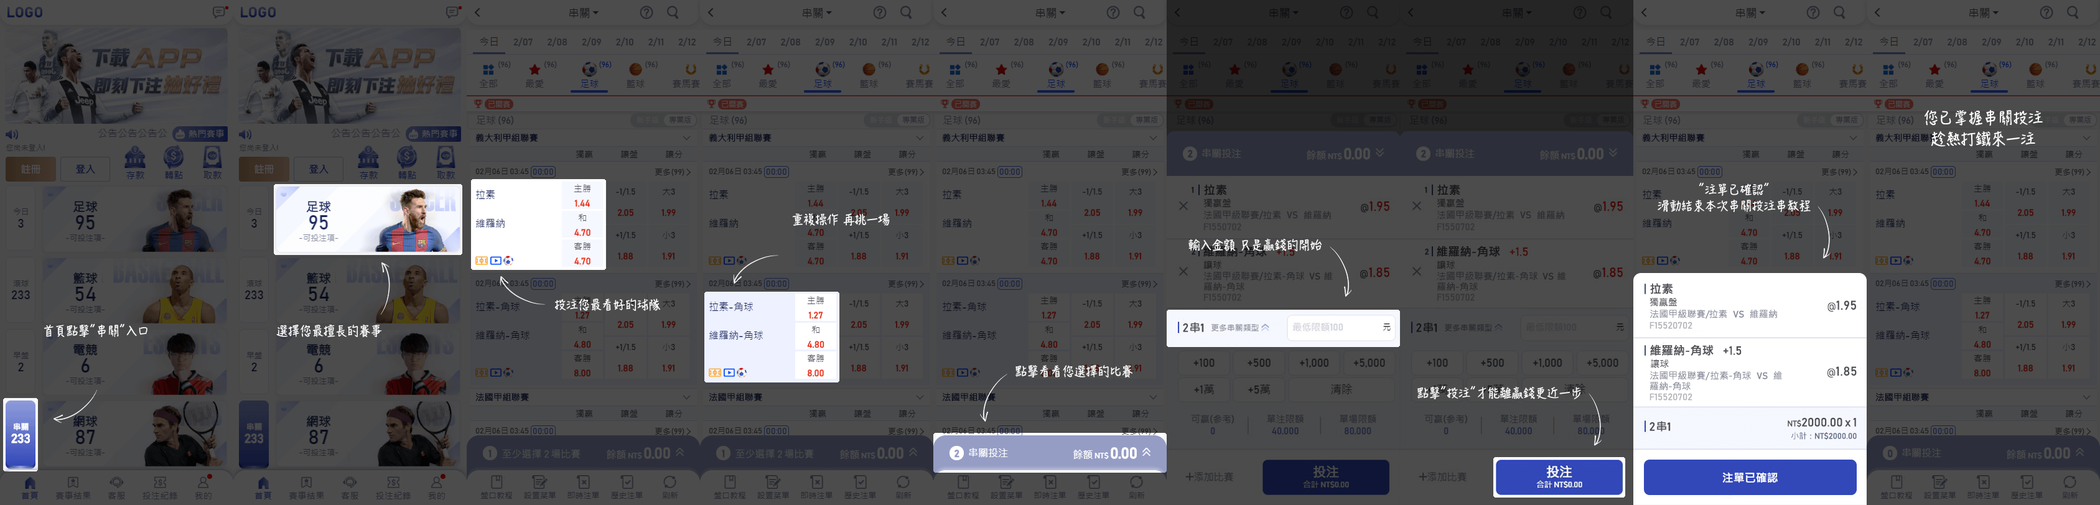
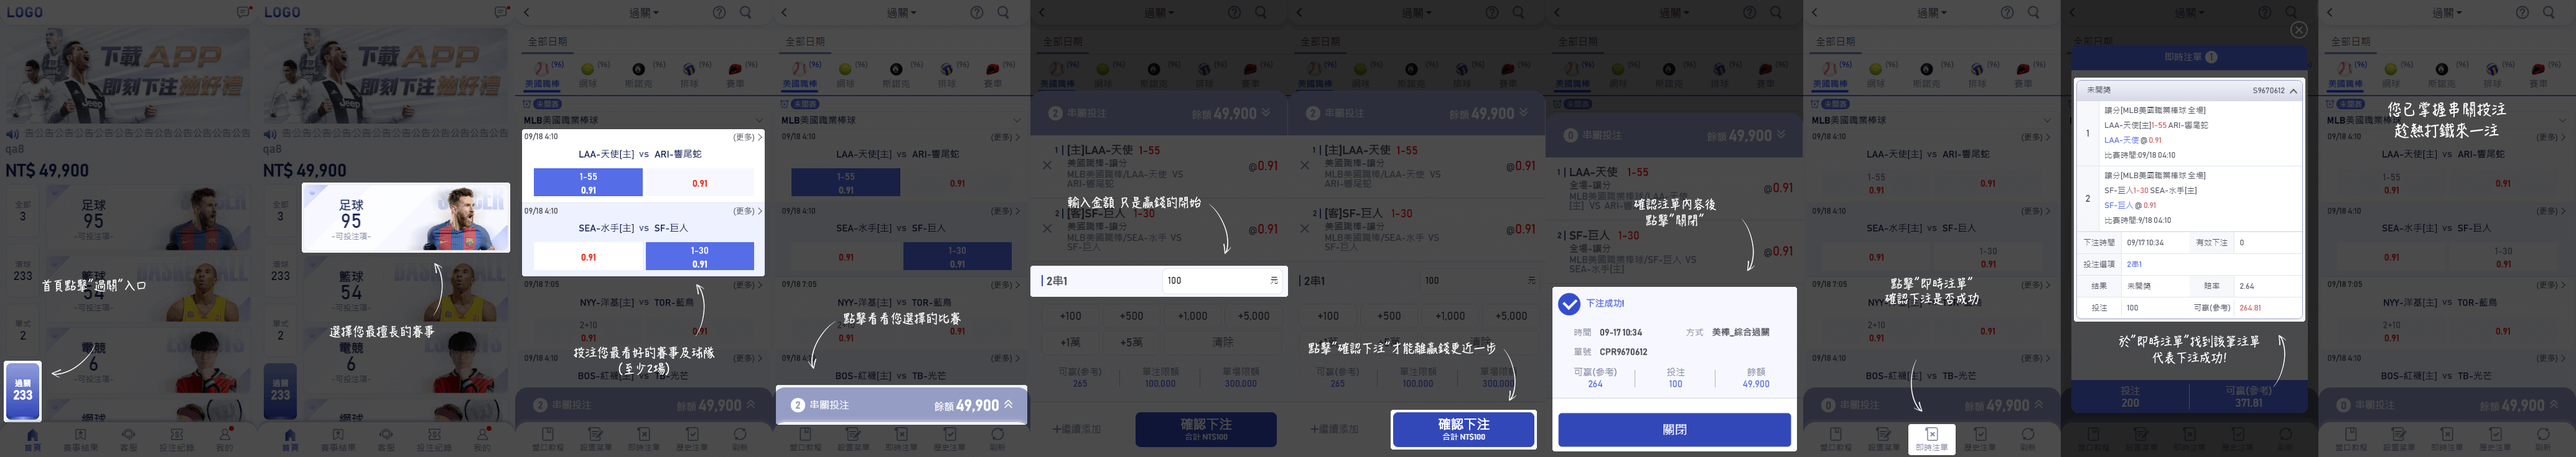
s_bet、m_bet change images

diff --git a/css/tip/tip.scss b/css/tip/tip.scss
@@ -49,10 +49,10 @@ main {
         width: 100%;
         height: 100%;
         background: url(../../images/tip/single/single_tip.png) no-repeat;
-        background-size: 600vw 100%;
+        background-size: 800vw 100%;
         background-position: 0 0;
     }
-    @for $smt from 2 through 6 {
+    @for $smt from 2 through 8 {
         .smt#{$smt} {
             background-position: (($smt - 1) * (-100vw)) 0;
         }
@@ -73,11 +73,14 @@ main {
             background-position: 0 -5.626rem;
         }
     }
+    .nt1 {
+        bottom: 19%;
+    }
     .nt2 {
-        bottom: 27%;
+        bottom: 31%;
     }
     .nt3 {
-        bottom: 24%;
+        bottom: 22%;
     }
     .nt4 {
         bottom: 3%;
@@ -86,7 +89,10 @@ main {
         bottom: 3%;
     }
     .nt6 {
-        bottom: 3%;
+        bottom: 25%;
+    }
+    .nt7 {
+        bottom: 27%;
     }
     .mbg {
         position: fixed;
@@ -96,18 +102,18 @@ main {
         width: 100%;
         height: 100%;
         background: url(../../images/tip/multiple/multiple_tip.png) no-repeat;
-        background-size: 900vw 100%;
+        background-size: 1000vw 100%;
         background-position: 0 0;
     }
-    @for $mmt from 2 through 9 {
+    @for $mmt from 2 through 10 {
         .mmt#{$mmt} {
             background-position: (($mmt - 1) * (-100vw)) 0;
         }
     }
     .mnxb {
         position: fixed;
-        left: 25%;
-        bottom: 25%;
+        left: 20%;
+        bottom: 28%;
         z-index: 1;
         width: 10.125rem * 2;
         height: 2.813rem * 2;
@@ -119,28 +125,37 @@ main {
             background-position: 0 -2.813rem * 2;
         }
     }
+    .mbt2 {
+        left: 32%;
+        bottom: 18%;
+    }
     .mbt3 {
-        left: 45%;
-        bottom: 31%;
+        left: 34%;
+        bottom: 10%;
     }
     .mbt4 {
-        left: 45%;
-        bottom: 48%;
+        left: 33%;
+        bottom: 21%;
     }
     .mbt5 {
-        left: 44%;
-        bottom: 17%;
+        left: 24%;
+        bottom: 46%;
     }
     .mbt6 {
-        left: 21%;
-        bottom: 42%;
+        left: 30%;
+        bottom: 14%;
     }
     .mbt7 {
-        bottom: 13%;
+        left: 34%;
+        bottom: 42%;
     }
     .mbt8 {
-        left: 28%;
-        bottom: 50%;
+        left: 33%;
+        bottom: 25%;
+    }
+    .mbt9 {
+        left: 34%;
+        bottom: 12%;
     }
     .nhbg {
         position: fixed;

diff --git a/css/tip/tip.css b/css/tip/tip.css
@@ -266,7 +266,7 @@ main .sbg {
   width: 100%;
   height: 100%;
   background: url(../../images/tip/single/single_tip.png) no-repeat;
-  background-size: 600vw 100%;
+  background-size: 800vw 100%;
   background-position: 0 0;
 }
 main .smt2 {
@@ -284,6 +284,12 @@ main .smt5 {
 main .smt6 {
   background-position: -500vw 0;
 }
+main .smt7 {
+  background-position: -600vw 0;
+}
+main .smt8 {
+  background-position: -700vw 0;
+}
 main .nxb {
   position: fixed;
   bottom: 24%;
@@ -299,11 +305,14 @@ main .nxb {
 main .nxb:active, main .nxb:hover {
   background-position: 0 -5.626rem;
 }
+main .nt1 {
+  bottom: 19%;
+}
 main .nt2 {
-  bottom: 27%;
+  bottom: 31%;
 }
 main .nt3 {
-  bottom: 24%;
+  bottom: 22%;
 }
 main .nt4 {
   bottom: 3%;
@@ -312,7 +321,10 @@ main .nt5 {
   bottom: 3%;
 }
 main .nt6 {
-  bottom: 3%;
+  bottom: 25%;
+}
+main .nt7 {
+  bottom: 27%;
 }
 main .mbg {
   position: fixed;
@@ -322,7 +334,7 @@ main .mbg {
   width: 100%;
   height: 100%;
   background: url(../../images/tip/multiple/multiple_tip.png) no-repeat;
-  background-size: 900vw 100%;
+  background-size: 1000vw 100%;
   background-position: 0 0;
 }
 main .mmt2 {
@@ -349,10 +361,13 @@ main .mmt8 {
 main .mmt9 {
   background-position: -800vw 0;
 }
+main .mmt10 {
+  background-position: -900vw 0;
+}
 main .mnxb {
   position: fixed;
-  left: 25%;
-  bottom: 25%;
+  left: 20%;
+  bottom: 28%;
   z-index: 1;
   width: 20.25rem;
   height: 5.626rem;
@@ -363,28 +378,37 @@ main .mnxb {
 main .mnxb:active, main .mnxb:hover {
   background-position: 0 -5.626rem;
 }
+main .mbt2 {
+  left: 32%;
+  bottom: 18%;
+}
 main .mbt3 {
-  left: 45%;
-  bottom: 31%;
+  left: 34%;
+  bottom: 10%;
 }
 main .mbt4 {
-  left: 45%;
-  bottom: 48%;
+  left: 33%;
+  bottom: 21%;
 }
 main .mbt5 {
-  left: 44%;
-  bottom: 17%;
+  left: 24%;
+  bottom: 46%;
 }
 main .mbt6 {
-  left: 21%;
-  bottom: 42%;
+  left: 30%;
+  bottom: 14%;
 }
 main .mbt7 {
-  bottom: 13%;
+  left: 34%;
+  bottom: 42%;
 }
 main .mbt8 {
-  left: 28%;
-  bottom: 50%;
+  left: 33%;
+  bottom: 25%;
+}
+main .mbt9 {
+  left: 34%;
+  bottom: 12%;
 }
 main .nhbg {
   position: fixed;

diff --git a/html/tip/single_bet_tip.html b/html/tip/single_bet_tip.html
@@ -12,7 +12,7 @@
     <main>
         <section class="1">
             <div class="sbg"></div>
-            <div class="nxb">
+            <div class="nxb nt1">
                 <a></a>
             </div>
             <div class="soff"><span>x</span><a href="../../index.html"></a>
@@ -57,6 +57,24 @@
 
         <section class="6 none">
             <div class="sbg smt6"></div>
+            <div class="nxb nt6">
+                <a></a>
+            </div>
+            <div class="soff"><span>x</span><a href="../../index.html"></a>
+            </div>
+        </section>
+
+        <section class="7 none">
+            <div class="sbg smt7"></div>
+            <div class="nxb nt7">
+                <a></a>
+            </div>
+            <div class="soff"><span>x</span><a href="../../index.html"></a>
+            </div>
+        </section>
+
+        <section class="8 none">
+            <div class="sbg smt8"></div>
             <div class="realb">
                 <a href="../../index.html"></a>
             </div>

diff --git a/html/tip/multiple_bet_tip.html b/html/tip/multiple_bet_tip.html
@@ -21,7 +21,7 @@
 
         <section class="2 none">
             <div class="mbg mmt2"></div>
-            <div class="mnxb">
+            <div class="mnxb mbt2">
                 <a></a>
             </div>
             <div class="soff"><span>x</span><a href="../../index.html"></a>
@@ -84,6 +84,15 @@
 
         <section class="9 none">
             <div class="mbg mmt9"></div>
+            <div class="mnxb mbt9">
+                <a></a>
+            </div>
+            <div class="soff"><span>x</span><a href="../../index.html"></a>
+            </div>
+        </section>
+
+        <section class="10 none">
+            <div class="mbg mmt10"></div>
             <div class="realb">
                 <a href="../../index.html"></a>
             </div>
